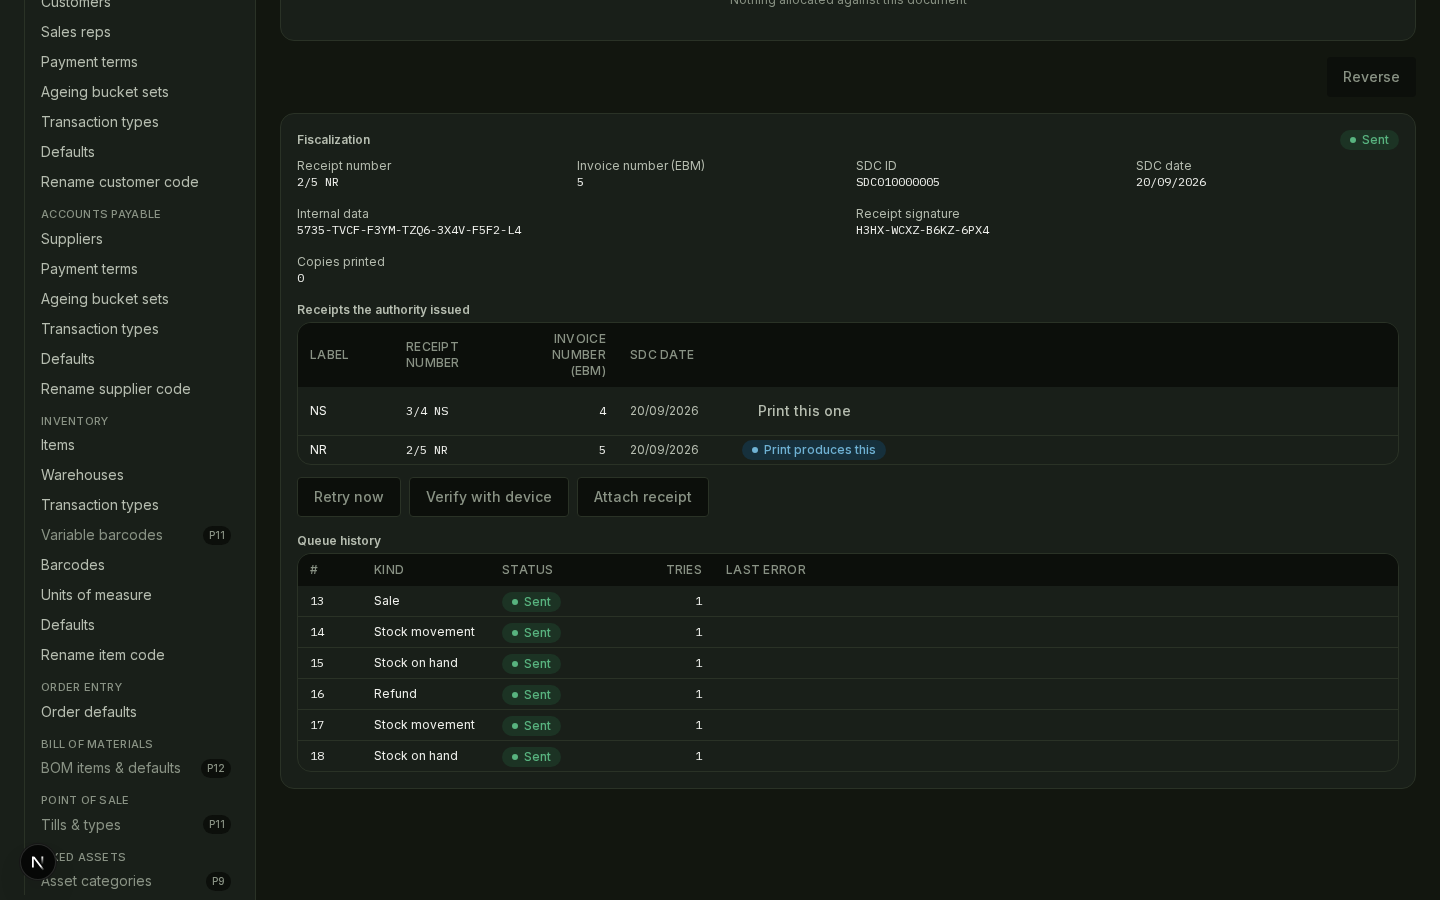
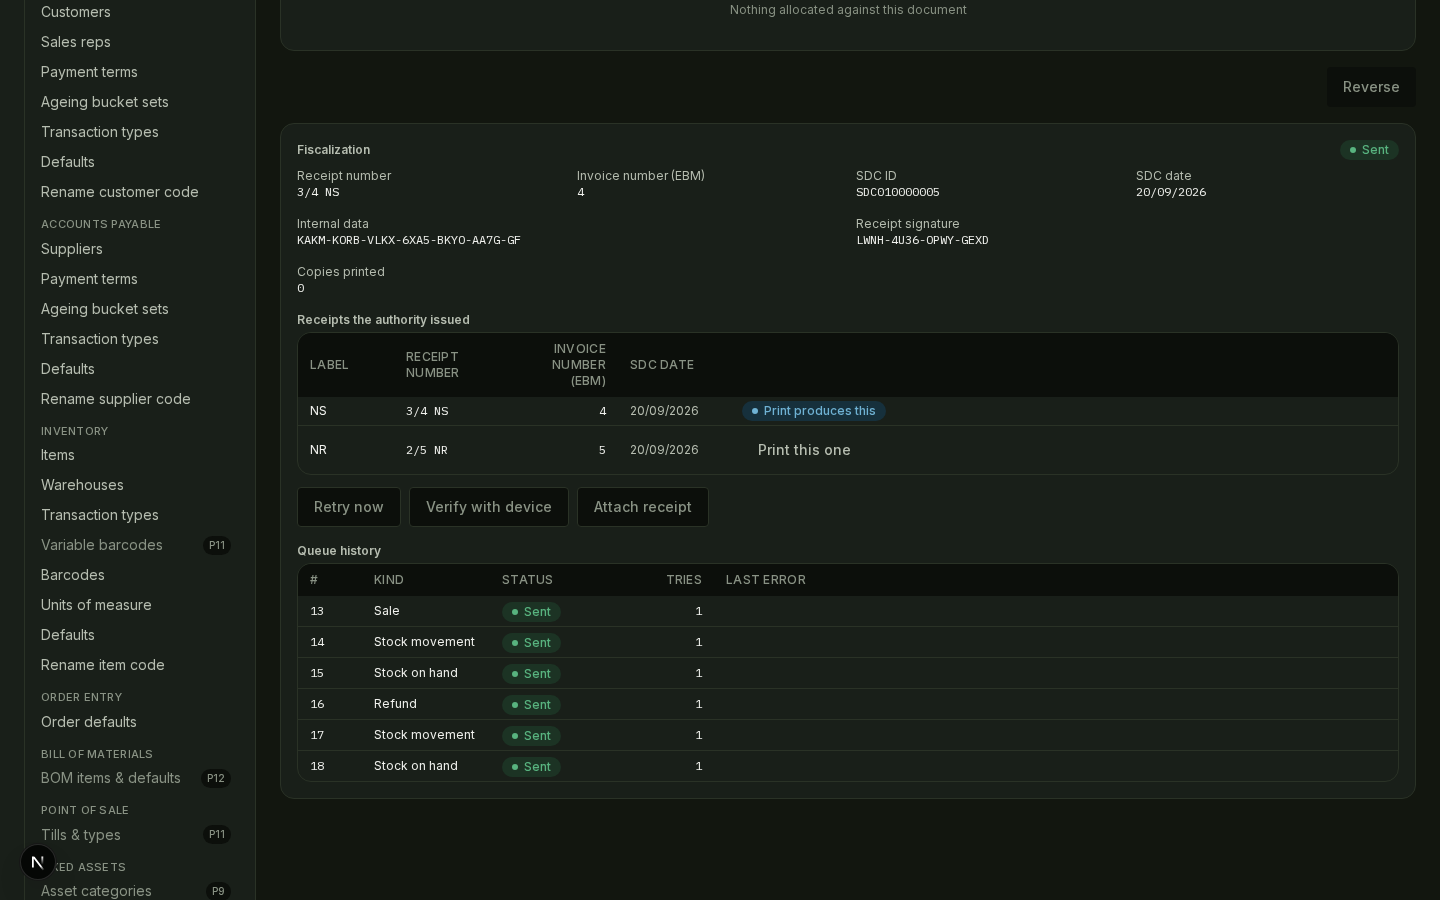
docs(p7): the screenshots, re-captured on the corrected semantics
Twenty-two files, light and dark, on a reset database against the sandbox. Shot
11 is the reversal — both receipts, with Print pointed at the sale and the refund
one press away. Shot 10 gains a posted run beside its preview, so both panels
carry rows rather than one carrying an empty state. Shot 6 inspects the sale
rather than the item registration: an item row's response is `{}`, which shows
the redaction over nothing.

diff --git a/frontend/scripts/capture-p7-transactions.ts b/frontend/scripts/capture-p7-transactions.ts
@@ -320,6 +320,24 @@ async function seed(
   });
   await apiOk(page, "/fiscal/outbox/drain");
 
+  // --- a posted revaluation, so shot 10's runs panel has rows and not an empty state -------
+  //
+  // The mirror posts the day after the revaluation date, so a month-end run reaches into the
+  // month after it and the seeded tenant marks that one `future`. Opening it is what an
+  // accountant does by hand before closing a month.
+  const periods = (await get(page, "/gl/periods")) as Array<
+    Named & { start_date: string; status: string }
+  >;
+  const next = periods.find((period) => period.start_date > monthEnd() && period.status !== "open");
+  if (next) await apiOk(page, `/gl/periods/${next.id}/open`);
+  const runs = (await get(page, "/gl/fx-revaluations")) as unknown[];
+  if (runs.length === 0) {
+    await apiOk(page, "/gl/fx-revaluations", {
+      revaluation_date: monthEnd(),
+      role: "both",
+    });
+  }
+
   // --- what the authority is holding ------------------------------------------------------
   await apiOk(page, `/fiscal/devices/${deviceId}/fetch-purchase-feed`);
   await apiOk(page, `/fiscal/devices/${deviceId}/fetch-imports`);
@@ -393,8 +411,19 @@ async function main() {
     });
 
     // 6 — a row's request and response, redacted, with its action log.
+    //
+    // The **sale** row, not the first one: an item registration's response is `{}`, so it shows
+    // the redaction over nothing. A sale's response carries the receipt the authority signed,
+    // which is both the more useful picture and the stronger claim — a payload with content in
+    // it, and still no key anywhere.
+    //
+    // Navigates for itself, so `ONLY=6-queue-row-payload` does not depend on shot 5 having run.
     await shot("6-queue-row-payload", async () => {
-      await page.locator("tbody tr").first().getByRole("button", { name: "Inspect", exact: true }).click();
+      await page.goto(`${BASE}/fiscal/queue`);
+      await page.waitForSelector("h1:has-text('Fiscal queue')");
+      const saleRow = page.locator("tbody tr").filter({ hasText: "Sale" }).first();
+      await saleRow.waitFor({ state: "visible" });
+      await saleRow.getByRole("button", { name: "Inspect", exact: true }).click();
       await page.getByTestId("row-request").waitFor({ state: "visible" });
       await page.waitForTimeout(300);
       await shoot(page, "6-queue-row-payload", theme);

diff --git a/docs/screenshots/p7-step-7/README.md b/docs/screenshots/p7-step-7/README.md
@@ -27,11 +27,11 @@ OUT=../docs/screenshots/p7-step-7 ONLY=4-cis-receipt-print npx tsx scripts/captu
 | 3 | Document detail, the fiscal panel with the receipt and Copy print | `3-document-fiscal-panel-{light,dark}.png` |
 | 4 | **The CIS receipt**, print media — the SDC block, the counters and the QR | `4-cis-receipt-print-{light,dark}.png` |
 | 5 | Fiscal queue, the device card and its rows in send order | `5-fiscal-queue-{light,dark}.png` |
-| 6 | A queue row's request and response, redacted, with its action log | `6-queue-row-payload-{light,dark}.png` |
+| 6 | A **sale** row's declared payload, redacted — an item row's response is `{}`, so it would show the redaction over nothing | `6-queue-row-payload-{light,dark}.png` |
 | 7 | EBM purchases, one undecided purchase the authority is holding | `7-ebm-purchases-{light,dark}.png` |
 | 8 | Import declarations, waiting to be matched to a Vinea item | `8-import-declarations-{light,dark}.png` |
 | 9 | VAT return, the figures with the tie under them | `9-vat-return-{light,dark}.png` |
-| 10 | FX revaluation, the preview per open foreign-currency document | `10-fx-revaluation-{light,dark}.png` |
+| 10 | FX revaluation: the preview per open document **and** a posted run with its entry and its next-day mirror | `10-fx-revaluation-{light,dark}.png` |
 | 11 | A reversed sale holding **both** receipts, with the one Print produces marked | `11-document-both-receipts-{light,dark}.png` |
 
 ## Shot 4 is taken under `emulateMedia({ media: "print" })`
